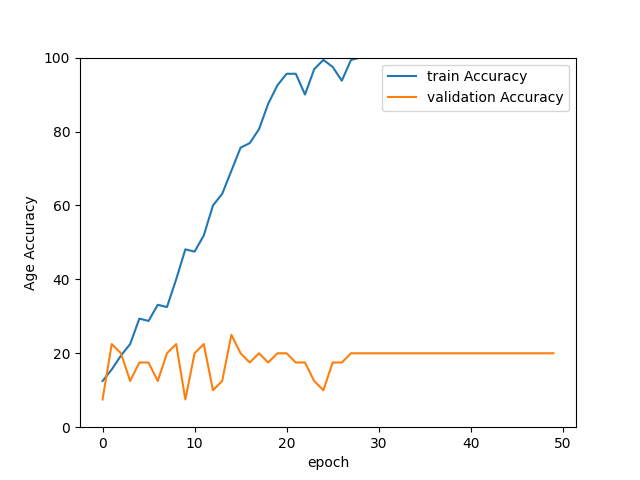
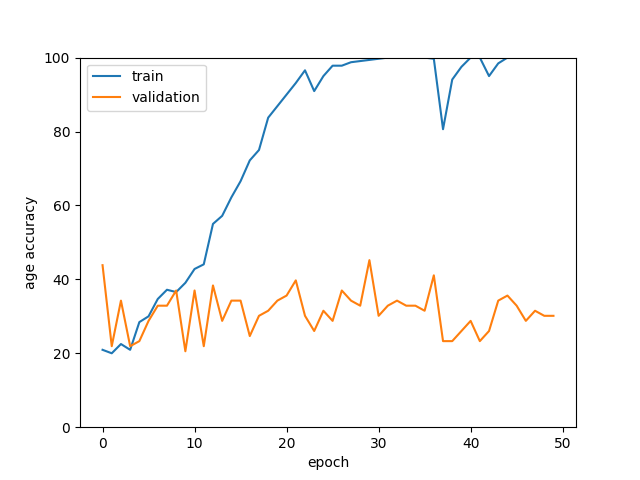
add

diff --git a/main.py b/main.py
@@ -7,7 +7,7 @@ from torchvision import transforms
 from make_data import make_data
 from make_label import make_label
 from datasets import CTDataset
-from model import CNN3D
+from model import CNN3D_drop
 from train import train
 from valid import valid
 import matplotlib.pyplot as plt
@@ -17,12 +17,12 @@ device = 'cuda' if torch.cuda.is_available() else 'cpu'
 print("Using {} device".format(device))
 
 #3次元CT(3次元配列)を配列に入れる
-train_data = make_data("/home/student/datasets/CT200_160/train/*")
-valid_data = make_data("/home/student/datasets/CT200_160/valid/*")
+train_data = make_data("/home/student/datasets/CT393/train/*")
+valid_data = make_data("/home/student/datasets/CT393/valid/*")
 
 #ラベルを配列に入れる
-train_label = make_label('/home/student/datasets/CT200_160/train_label.csv')
-valid_label = make_label('/home/student/datasets/CT200_160/valid_label.csv')
+train_label = make_label('/home/student/datasets/CT393/train_label.csv')
+valid_label = make_label('/home/student/datasets/CT393/valid_label.csv')
 
 #前処理を定義
 mean, std = 0.07, 0.14
@@ -46,15 +46,15 @@ train_dataloader = torch.utils.data.DataLoader(train_dataset, batch_size=4, shuf
 valid_dataloader = torch.utils.data.DataLoader(valid_dataset, batch_size=4, shuffle=False)
 
 #モデルを読み込む
-model = CNN3D().to(device)
+model = CNN3D_drop().to(device)
 
 print(model)
 
 #損失関数
-sex_weight = torch.tensor([7.0, 3.0]).cuda()
-# sex_weight = torch.tensor([2.0, 1.0]).cuda()
-age_weight = torch.tensor([12.0, 2.0, 3.0, 4.0, 6.0, 6.0, 12.0]).cuda()
+# sex_weight = torch.tensor([7.0, 3.0]).cuda()
+sex_weight = torch.tensor([2.0, 1.0]).cuda()
 # age_weight = torch.tensor([12.0, 2.0, 3.0, 4.0, 6.0, 6.0, 12.0]).cuda()
+age_weight = torch.tensor([10.0, 1.0, 2.0, 3.0, 4.0, 5.0, 5.0]).cuda()
 sex_criterion = nn.CrossEntropyLoss(weight=sex_weight)
 age_criterion = nn.CrossEntropyLoss(weight=age_weight)
 
@@ -109,7 +109,7 @@ fig1.savefig("graph/loss.png")
 #性別の正答率のグラフ表示
 fig2 = plt.figure()
 plt.xlabel("epoch")
-plt.ylabel("Sex Accuracy")
+plt.ylabel("sex accuracy")
 plt.plot(train_correct_sex_list, label='train')
 plt.plot(valid_correct_sex_list, label='validation')
 plt.ylim(0, 100)
@@ -119,7 +119,7 @@ fig2.savefig("graph/sex.png")
 #年齢の正答率のグラフ表示
 fig3 = plt.figure()
 plt.xlabel("epoch")
-plt.ylabel("Age Accuracy")
+plt.ylabel("age accuracy")
 plt.plot(train_correct_age_list, label='train')
 plt.plot(valid_correct_age_list, label='validation')
 plt.ylim(0, 100)
@@ -129,7 +129,7 @@ fig3.savefig("graph/age.png")
 # 性別の損失のグラフ表示
 fig4 = plt.figure()
 plt.xlabel("epoch")
-plt.ylabel("loss")
+plt.ylabel("sex loss")
 plt.plot(train_loss_sex_list, label='train')
 plt.plot(valid_loss_sex_list, label='validation')
 plt.xlim()
@@ -139,7 +139,7 @@ fig4.savefig("graph/loss_sex.png")
 # 年齢の損失のグラフ表示
 fig5 = plt.figure()
 plt.xlabel("epoch")
-plt.ylabel("loss")
+plt.ylabel("age loss")
 plt.plot(train_loss_age_list, label='train')
 plt.plot(valid_loss_age_list, label='validation')
 plt.xlim()

diff --git a/model.py b/model.py
@@ -31,3 +31,36 @@ class CNN3D(nn.Module):
         sex = self.fc_sex(x)
         age = self.fc_age(x)
         return sex, age
+
+class CNN3D_drop(nn.Module):
+    def __init__(self):
+        super().__init__()
+        self.features = nn.Sequential(
+            nn.Conv3d(in_channels=1, out_channels=64, kernel_size=5, padding=2),
+            nn.ReLU(inplace=True),
+            nn.MaxPool3d(kernel_size=2),
+            nn.Conv3d(in_channels=64, out_channels=128, kernel_size=3, padding=1),
+            nn.ReLU(inplace=True),
+            nn.MaxPool3d(kernel_size=2),
+            nn.Conv3d(in_channels=128, out_channels=256, kernel_size=3, padding=1),
+            nn.ReLU(inplace=True),
+            nn.MaxPool3d(kernel_size=2),
+            nn.Conv3d(in_channels=256, out_channels=128, kernel_size=3, padding=1),
+            nn.ReLU(inplace=True)
+        )
+        in_feature = 221184
+        self.fc1 = nn.Linear(in_features=in_feature, out_features=1000)
+        self.dropout = nn.Dropout(p=0.5)
+        self.fc2 = nn.Linear(in_features=1000, out_features=100)
+        self.fc_sex = nn.Linear(in_features=100, out_features=2)
+        self.fc_age = nn.Linear(in_features=100, out_features=7)
+    
+    def forward(self, x):
+        x = self.features(x)
+        x = x.view(x.size(0), -1)
+        x = self.fc1(x)
+        x = self.dropout(x)
+        x = self.fc2(x)
+        sex = self.fc_sex(x)
+        age = self.fc_age(x)
+        return sex, age

diff --git a/test.py b/test.py
@@ -17,10 +17,10 @@ device = 'cuda' if torch.cuda.is_available() else 'cpu'
 print("Using {} device".format(device))
 
 #3次元CT(3次元配列)をnumpy配列に入れる
-valid_data = make_data("/home/student/datasets/CT200_160/valid/*")
+valid_data = make_data("/home/student/datasets/CT393/valid/*")
 
 #ラベルをnumpy配列に入れる
-valid_label = make_label('/home/student/datasets/CT200_160/valid_label.csv')
+valid_label = make_label('/home/student/datasets/CT393/valid_label.csv')
 
 #前処理を定義
 mean, std = 0.07, 0.14
